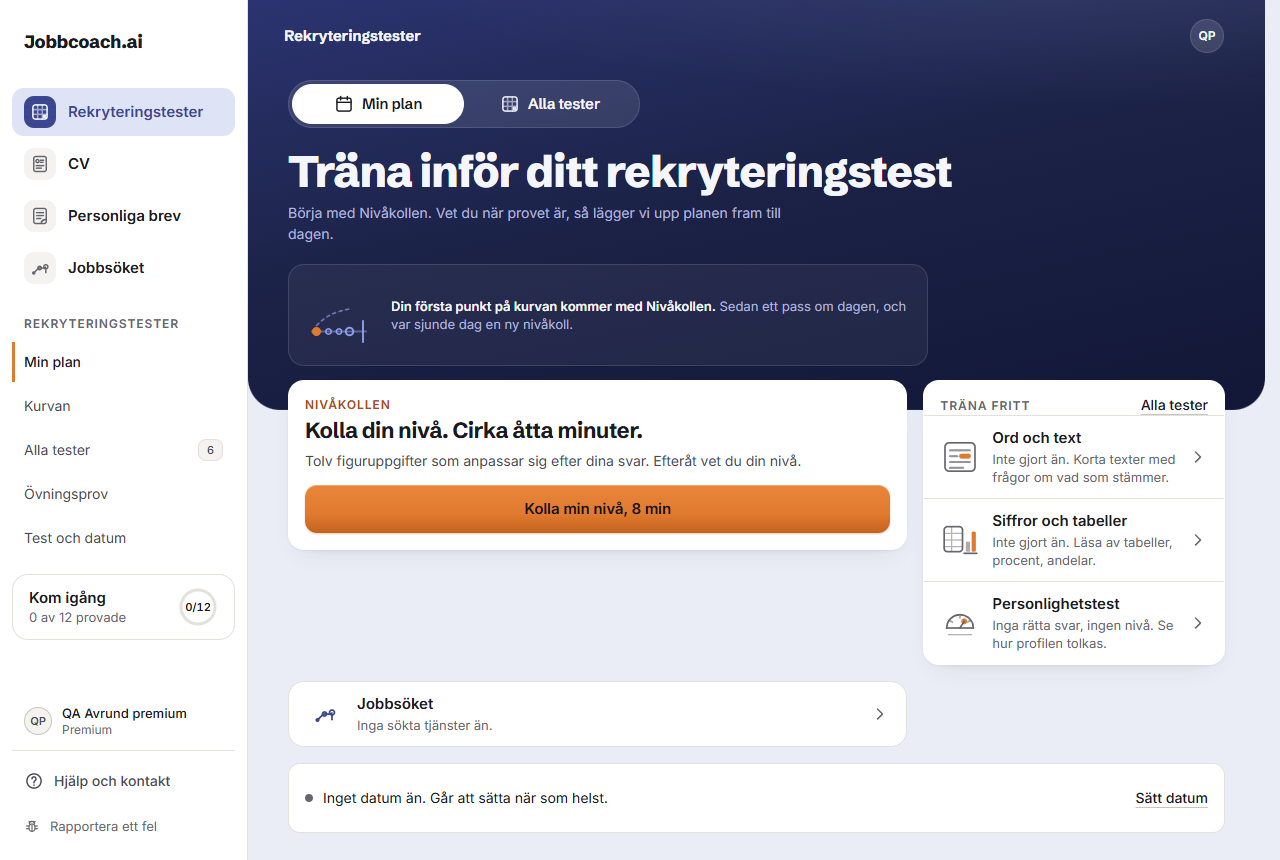
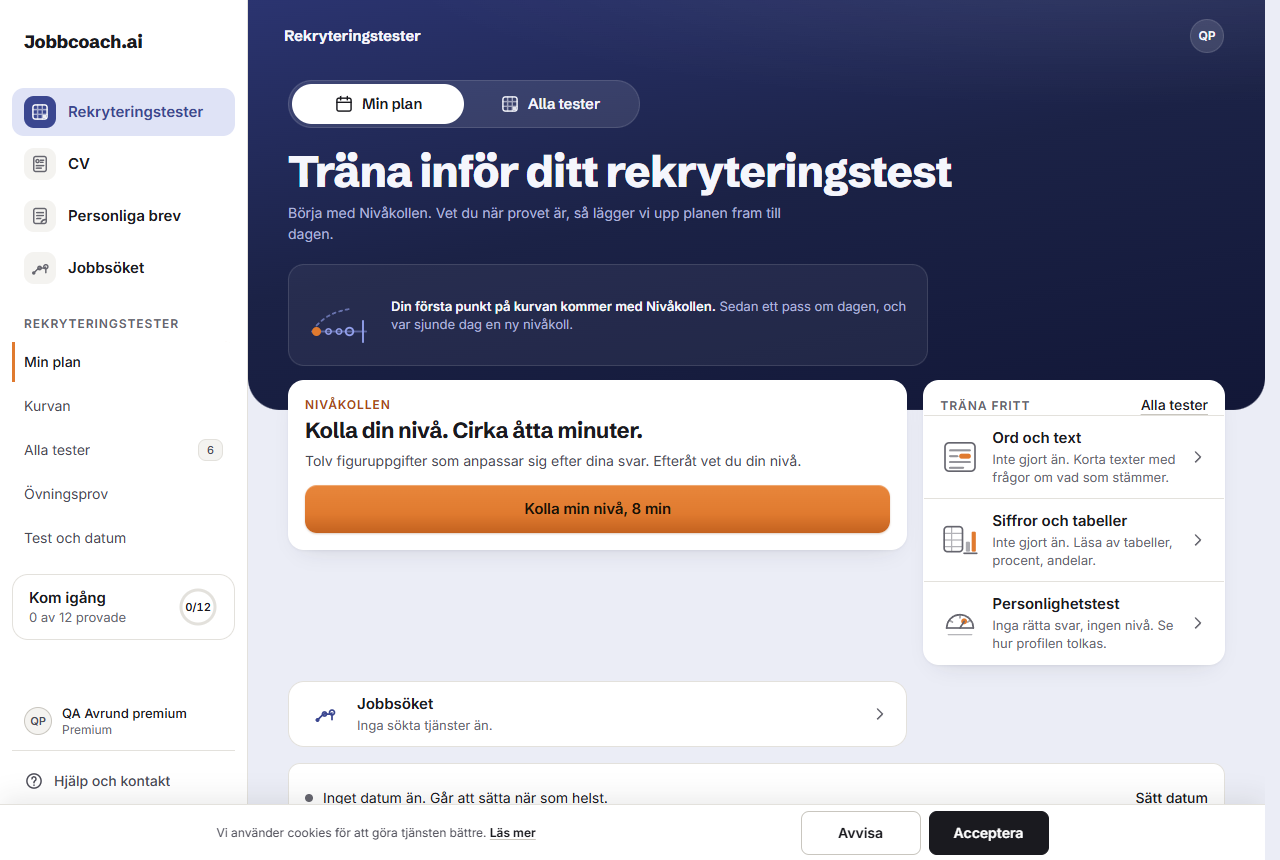
fix(tester): 1c på mobil, brödtexten på två rader och kurvans datumrad bort
Kopparknappen i läget inför provet stod på 683 px på 360 (gräns 620).
Copywriterns kortare text1/text2, provets andra regel bär "ingen paus", och
art-directors beslut att stryka kurvans datumrad i 1c under lg. Nu 613 px.
Klicktestet kräver 620 i båda lägena.

diff --git a/src/lib/traning/hem-copy.ts b/src/lib/traning/hem-copy.ts
@@ -221,8 +221,8 @@ export const HEM = {
   infor: {
     eyebrow: 'Övningsprov',
     titel: (format: string) => format,
-    text2: 'Som på riktigt: ingen förklaring förrän efteråt och ingen paus. Sitt vid datorn i ett tyst rum. I morgon gör du ett till.',
-    text1: 'Som på riktigt: ingen förklaring förrän efteråt och ingen paus. Sitt vid datorn i ett tyst rum. Det här är sista övningen före provet.',
+    text2: 'Som på riktigt. I morgon gör du ett till.',
+    text1: 'Som på riktigt. Sista övningen före provet.',
     knapp: 'Starta övningsprovet',
     status: 'Övningsprov fram till provet. På provdagen bara tre uppvärmningsfrågor.',
     lastText: () => `Övningsprovet i samma format som ditt test ingår i ${paketKort()}. Resultat och genomgång av det du redan gjort är alltid dina.`,

diff --git a/src/components/traning/Kurva.tsx b/src/components/traning/Kurva.tsx
@@ -65,6 +65,8 @@ export interface KurvaProps {
    * och bara ordet under mätningen. Axeln är visualiseringen.
    */
   utanPunktTal?: boolean
+  /** Ingen datumrad under kurvan (hemvyn 1c på mobil, art-director 2026-10-12: kopparknappen ovanför 620 px). */
+  utanAxel?: boolean
   className?: string
 }
 
@@ -387,7 +389,7 @@ export default function Kurva(props: KurvaProps) {
           ) : null}
         </div>
       </div>
-      <Axel g={g} idag={idag} prov={prov} plan={props.plan} provPasserat={provPasserat} dator={dator} />
+      {props.utanAxel ? null : <Axel g={g} idag={idag} prov={prov} plan={props.plan} provPasserat={provPasserat} dator={dator} />}
     </div>
   )
 }

diff --git a/src/lib/ovningsprov/copy.ts b/src/lib/ovningsprov/copy.ts
@@ -35,7 +35,7 @@ export const START = {
   formatTitel: (f: Ovningsformat) => formatTitel(f),
   regler: [
     { titel: 'Klockan räknar ned', text: 'Provet lämnas in självt när tiden är ute.' },
-    { titel: 'Ingen hjälp under tiden', text: 'Ingen regel, inget facit förrän efteråt.' },
+    { titel: 'Ingen hjälp under tiden', text: 'Ingen regel, inget facit och ingen paus förrän efteråt.' },
     { titel: 'Obesvarade räknas som fel', text: 'Gissa hellre än att lämna tomt.' },
   ],
   reglerAria: 'Tre regler',

diff --git a/src/components/traning/Hemvy.tsx b/src/components/traning/Hemvy.tsx
@@ -283,7 +283,7 @@ function KurvaPaVaggen({ m }: { m: HemModell }) {
       {v.kurva ? (
         <>
           <div className="lg:hidden">
-            <Kurva {...v.kurva} bredd="mobil" hojd="kompakt" utanPunktTal />
+            <Kurva {...v.kurva} bredd="mobil" hojd="kompakt" utanPunktTal utanAxel={m.ram === '1c'} />
           </div>
           <div className="hidden max-w-[840px] lg:block">
             <Kurva {...v.kurva} bredd="dator" utanPunktTal />

diff --git a/docs/design/copy-avrundning-2026-10-12.md b/docs/design/copy-avrundning-2026-10-12.md
@@ -97,6 +97,15 @@ Källan är inte hem-copy.ts utan src/lib/traning/hemvy.ts, ramen 1c, lyftkortet
 
 Titeln är då högst 35 tecken (Aon), två rader i display-snittet på 360, oftast en. Antal och tid står först i metaraden, där siffror är fakta och inte löptext. Kolonet i titeln försvinner samtidigt.
 
+Brödtexten får vara högst två rader på 360 (cirka 85 tecken med antal och tid). Därför kortas `HEM.infor.text1` och `text2` i hem-copy.ts:
+
+| Fil | Nyckel | Gammal text | Ny text |
+|---|---|---|---|
+| hem-copy.ts | `infor.text2` | Som på riktigt: ingen förklaring förrän efteråt och ingen paus. Sitt vid datorn i ett tyst rum. I morgon gör du ett till. | Som på riktigt. I morgon gör du ett till. |
+| hem-copy.ts | `infor.text1` | Som på riktigt: ingen förklaring förrän efteråt och ingen paus. Sitt vid datorn i ett tyst rum. Det här är sista övningen före provet. | Som på riktigt. Sista övningen före provet. |
+
+Med "Cirka 35 uppgifter på 40 minuter." först blir det 75 respektive 77 tecken. Det som stryks ligger redan delvis i startarket (ovningsprov/copy.ts, "Ingen hjälp under tiden. Ingen regel, inget facit förrän efteråt."). Lägg till en rad där: "Ingen paus. Sitt vid datorn i ett tyst rum." Rådet om tyst rum finns också i provdagens rad (`provdag.rad.tystRum`).
+
 ## 7. Att kontrollera efter införandet
 
 - Raderna under rubriken i 1a och kurvmetan ryms på en rad vid 360 px.
